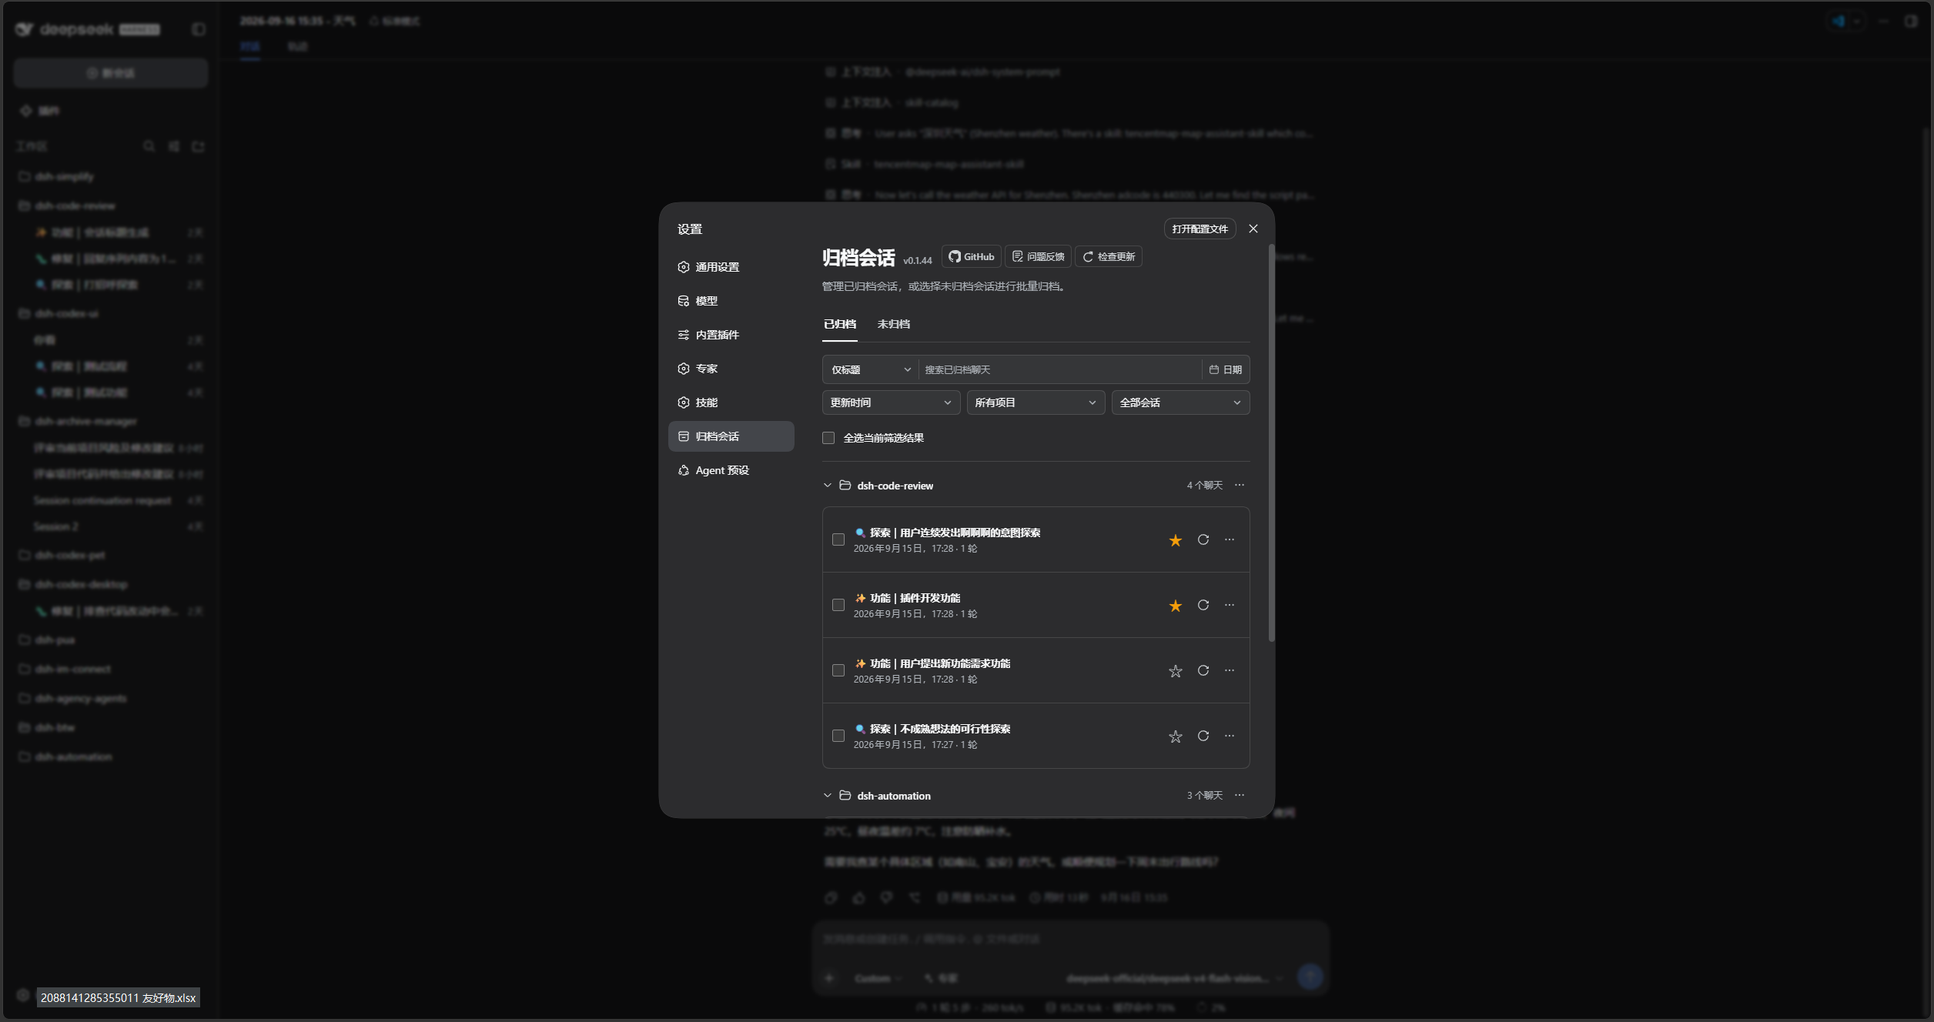
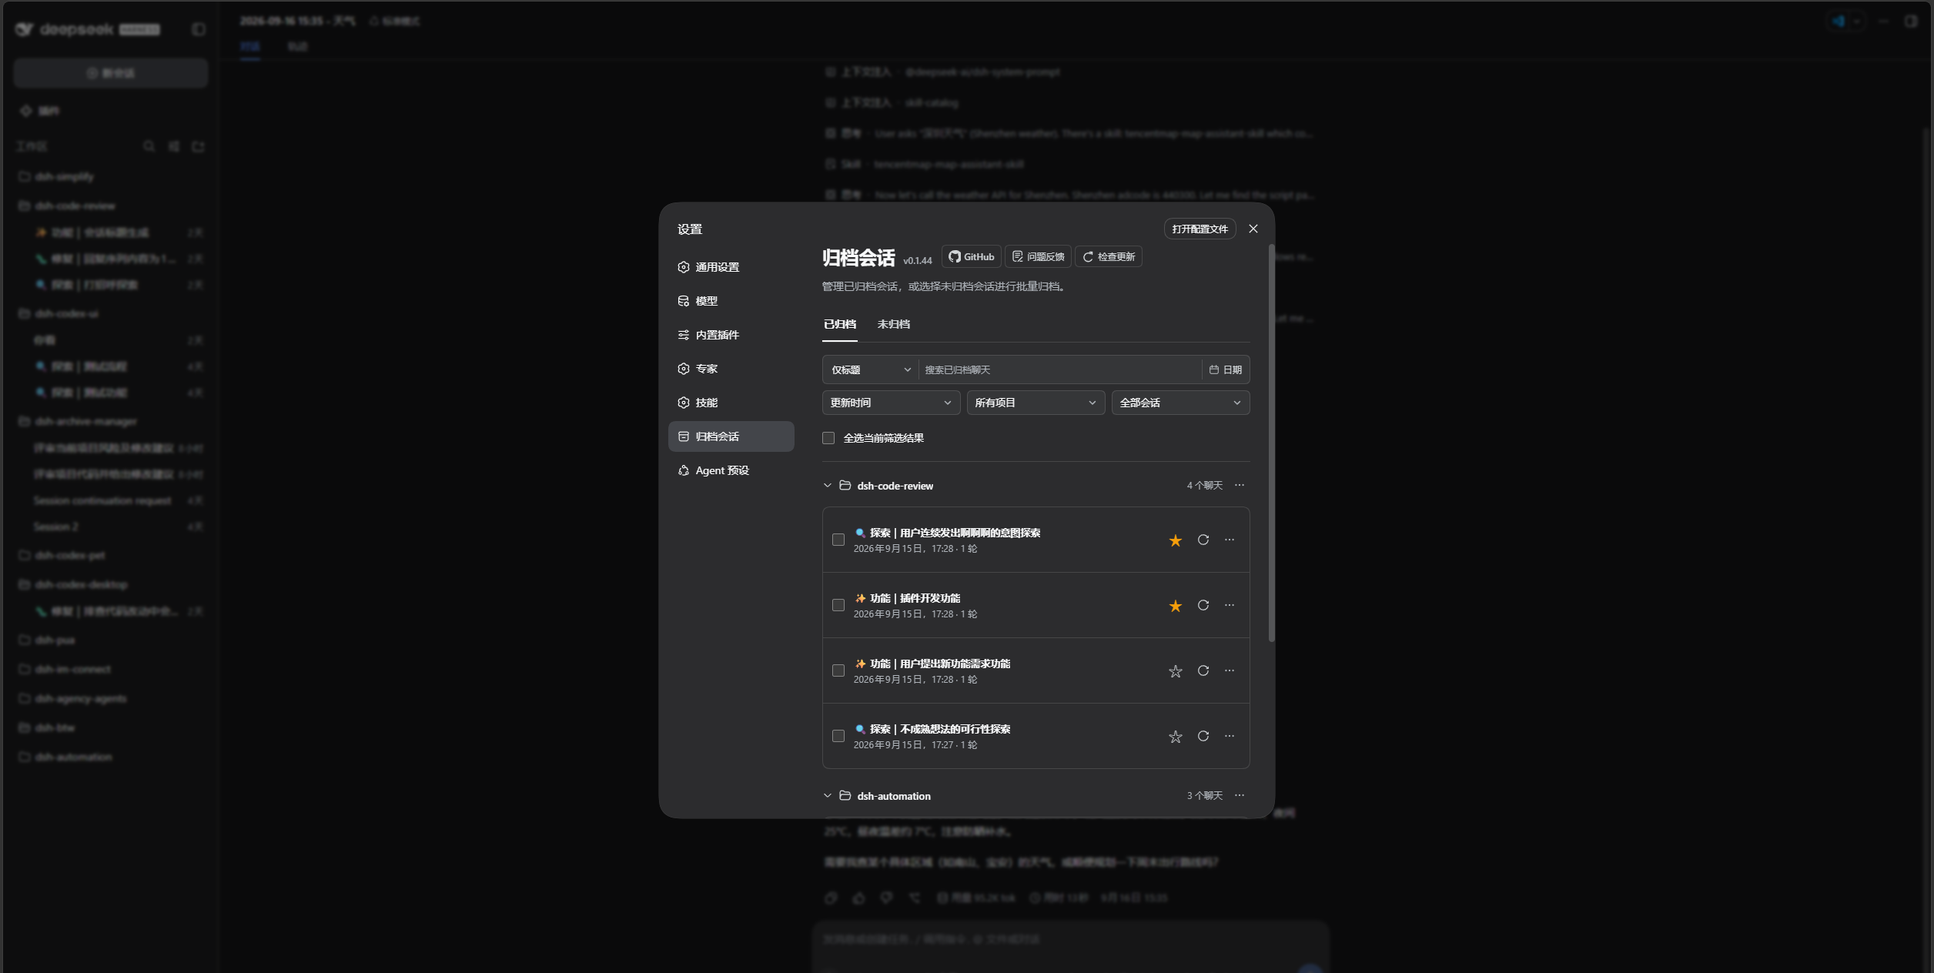
fix: 修复迁移防御与截图隐私并准备 1.0.1
恢复宿主导航快照的可调用检查，保留畸形日志轮次统计的旧语义，
并覆盖原始值、空值、数组与宿主清理包装路径。
裁掉两张截图的个人文件名，移除孤儿菜单图；补齐英文 README、
双语更新日志和发行说明。lib 仍不入 Git，发布入口与运行模块不变。
补齐全部 11 个发布模块检查，test:compat 独立运行前自动构建。

验证：
- 回归测试先失败再通过，pnpm typecheck 通过。
- pnpm release:preflight 与最终 pnpm verify 通过：248 项当前测试。
- 7 版 DSH 兼容矩阵通过；最老两版各有 1 个既有跳过项。
- 无 lib 的隔离目录中独立 pnpm test:compat 通过。
- 6 个新增必需模块逐一缺失均被阻断。
- 实际包含 11 个模块，裁剪图逐字节一致，无旧截图和独立发行说明。
- npm 官方源审计 0 漏洞，git diff --check 通过。

边界：旧 npm 1.0.0 和 Git 历史图片不被本补丁删除；
client.ts 大组件拆分仍是独立待办。

diff --git a/src/archive-discovery.ts b/src/archive-discovery.ts
@@ -58,12 +58,15 @@ export const detailsResultSchema = { parse(input: unknown) {
 /** 一条用户提交算一轮，包括图片消息；助手工具步骤及插件注入不计入。 */
 export function countConversationTurns(events: readonly unknown[]) {
   if (!Array.isArray(events)) throw new TypeError("会话日志无效");
-  return events.map(record).filter(event => {
-    if (event.type !== "user/message") return false;
-    const data = event.data && typeof event.data === "object" ? record(event.data) : {};
-    const message = data.message && typeof data.message === "object" ? record(data.message) : data;
-    const source = message.source && typeof message.source === "object" ? record(message.source) : {};
-    return Boolean(event.data) && (!source.kind || source.kind === "user");
+  return events.filter(value => {
+    if (!value || typeof value !== "object" || !("type" in value) || value.type !== "user/message") return false;
+    const data = "data" in value ? value.data : undefined;
+    // 保留旧日志的空值回退与真假值语义：空字符串/零不计数，非空原始载荷计数。
+    const message = (data && typeof data === "object" && "message" in data ? data.message : undefined) ?? data;
+    if (!message) return false;
+    const source = typeof message === "object" && "source" in message ? message.source : undefined;
+    const kind = source && typeof source === "object" && "kind" in source ? source.kind : undefined;
+    return !kind || kind === "user";
   }).length;
 }
 /** 未知轮次始终排在已知值之后，避免读取失败被误当作零轮。 */

diff --git a/src/archive-experience.ts b/src/archive-experience.ts
@@ -4,7 +4,7 @@ import type { ArchiveState, SessionList, Snapshot, Translate } from "./contracts
 interface RetainInfo { retainedBy?: { mainView?: number } }
 export interface SessionNavigationSource {
   list: Snapshot<SessionList>;
-  retainInfo?(id: string): RetainInfo | Snapshot<RetainInfo> | undefined;
+  retainInfo?(id: string): unknown;
   retain?: unknown;
   open?(id: string): unknown;
 }
@@ -37,7 +37,13 @@ export function formatArchiveNavigationError(error: unknown, t: Translate) {
 function retainInfoSnapshot(sessions: SessionNavigationSource | undefined, id: string): RetainInfo | undefined {
   if (typeof sessions?.retainInfo !== "function") return;
   const source = sessions.retainInfo(id);
-  return source && "getSnapshot" in source ? source.getSnapshot() : source;
+  // 宿主边界不能只凭字段存在就调用；畸形保留信息应退化为非当前会话。
+  const value: unknown = source && typeof source === "object" && "getSnapshot" in source && typeof source.getSnapshot === "function"
+    ? source.getSnapshot() : source;
+  if (!value || typeof value !== "object" || !("retainedBy" in value)) return;
+  const retainedBy = value.retainedBy;
+  if (!retainedBy || typeof retainedBy !== "object" || !("mainView" in retainedBy) || typeof retainedBy.mainView !== "number") return;
+  return { retainedBy: { mainView: retainedBy.mainView } };
 }
 
 function mainViewSessionId(list: SessionList | undefined) {

diff --git a/RELEASE_NOTES.md b/RELEASE_NOTES.md
@@ -1,113 +1,15 @@
 ## 中文说明
 
-从 0.1.44 升级到首个 1.0 正式版本，集中完善会话整理、检索、预览与异常修复。沿用原有安装包名和数据，不要求迁移会话；现有归档、恢复、永久删除及原生会话导航继续保留。
-
-### 会话列表与统一筛选
-
-- 已归档、未归档两页统一支持标题／正文搜索、项目、收藏和更新时间范围筛选；默认只搜索标题，搜索框左侧切换范围，右侧打开日期选择器。结束日期包含本地当天，支持独立清除日期及点击外部关闭。
-- 使用紧凑项目分组列表，项目可折叠；标题点击打开原生会话，星标、恢复／归档使用右侧图标，更多菜单提供恢复打开、预览、复制与删除等适用操作。
-- 支持更新时间、创建时间、标题和轮次升降序排序；分组计数跟随筛选，空态区分当前页签。
-- 全选只覆盖当前筛选结果，包含折叠组中的匹配项；切页签清空选择，改变筛选保留选择并提示隐藏选中项。项目菜单仍操作整个项目，不受筛选影响。
-- 移除重复的页面级「全部恢复／全部删除」按钮；保留勾选批量操作及项目菜单，操作结果按页签隔离。
-
-### 收藏、闲置整理与批量操作
-
-- 两页均可收藏／取消收藏，通过下拉菜单只看收藏；收藏保存于宿主，归档、恢复和更换浏览器后保留。索引暂时未知或读取失败不会清除收藏，只有确证工件缺失时才清理。
-- 未归档页支持设置 1～36500 个整数闲置天数，结合当前筛选预览候选；确认清单可逐条取消。排除收藏、当前打开、正在执行及等待交互的会话，并考虑子代理活动；无有效活动时间不参与。
-- 归档前再次检查收藏和活动状态。批量归档、恢复、删除显示进度及成功／跳过／失败／未处理明细；遇到首个失败停止，允许只重试剩余项，删除重试仍需确认。
-- 支持「撤回本次归档」，恢复最近一批实际成功归档及重试成功的会话；仅当前管理页打开期间有效，不撤回永久删除。
-
-### 正文检索与快速预览
-
-- 在用户与助手的持久化正文中查找关键词，显示命中片段和高亮；读取失败显示明细并支持重试，更改筛选后旧响应不会覆盖新结果。
-- 已归档会话可不恢复直接预览，展示首个命中附近上下文或最近八条消息；未归档命中片段打开完整会话。
-- 预览支持 Markdown 表格、引用、代码块和角色区分，可切换原文高亮；加宽弹窗并补齐操作图标。
-- 修复大小写折叠引起的 Unicode 偏移错误、截断切开代理对、Esc 连带关闭设置，以及切换页签后预览自行重开。
-
-### 轮次统计与会话定位
-
-- 两页显示用户提交轮次，包括图片消息及分支继承的用户消息，不把助手回复、工具调用或插件注入算作轮次。
-- 提供轮次最多／最少排序，未知轮次始终置后；详情读取失败可查看并重试。
-- 更多菜单支持分别复制会话 ID 和路径。官方 JSONL 后端复制会话目录，其他后端使用宿主返回的有效路径；路径缺失和剪贴板失败均明确提示。
-
-### 异常诊断与定向修复
-
-- 已归档页汇总异常会话，包括缺少摘要的归档 ID；诊断区使用可折叠状态卡片，提供分类建议及技术详情。
-- 缺文件、权限、损坏等分类优先使用稳定错误码、兼容文案兜底；诊断发现不能自动修复时仍保留原分类，追加受限原因。
-- 对支持的旧自动化消息来源提供「诊断 → 确认修复」流程。以实际工件、宿主格式校验和写锁判断资格，不仅依赖错误措辞；要求已归档且未被任何 DSH 进程打开。
-- 保留原始日志、正文、任务归属和继承信息，经宿主重新编码与校验后发布新代际；修复文件使用私有权限。发布采用禁止覆盖策略，硬链接不可用时安全失败，不覆盖现有日志。
-
-### 界面、国际化与兼容性
-
-- 对齐官方主题的选中、复选框、焦点、警告、更新按钮及高亮配色；完善日期下拉、诊断卡片、星标和操作图标。
-- 补齐诊断、预览、更新入口和错误提示的中英文；切换语言不再额外触发详情读取，修复复制错误和空态文案。
-- 更新已归档／未归档截图及双语 README，完整说明筛选、撤回、修复与检索边界。
-- 保持既有 DSH 支持范围：0.1.0-rc.8、0.1.1-rc.2、0.1.2-rc.1、0.1.5-rc.1、0.1.5-rc.2、0.1.6-alpha.1、0.1.6-alpha.2；与 Codex UI 共存，不新增侧栏置顶或收藏功能。
-- 正式检索接口为 searchSessionContent，支持两种归档状态；searchArchivedContent 保留为旧宿主／客户端的归档专用兼容入口，不重复调用。
-
-### 使用边界与验证
-
-- 正文检索和轮次没有持久化索引；每批最多 20 条会话、批内逐条读取。大量或超长日志建议先缩小范围，尚无规模或时延承诺；在途批次不能中止，取消只阻止后续批次及旧结果回写。
-- 检索关键词最多 200 字符；不搜索工具输出、附件、推理、系统和插件注入。预览每条最多 2000 个 UTF-16 码元，保留完整 Unicode 字符；完整内容通过原生会话查看。
-- 没有后台定时归档；收藏保护仅适用于闲置整理。其他页面的收藏变更需重开管理页读取；撤回记录在关闭或刷新后消失。
-- 自动修复不是通用日志恢复工具：缺失、权限及不支持的损坏只提供建议，不删除或截断消息。永久删除不可撤销；本轮不新增任务摘要和 Markdown 导出。
-- 功能候选已通过本地回归、支持宿主隔离矩阵及真实 DSH 0.1.6-alpha.2 浏览器冒烟，覆盖检索、预览、收藏、批量操作、诊断与修复。真实模型发送、流式回复、工具审批和未知宿主版本不在本次验收承诺内。
-- 宿主设置窗口在极窄屏下的遮挡仍需宿主侧修复；未承诺所有移动端布局均可用。
+- 源码迁移为严格 TypeScript；生成的 `lib` 不再进入 Git，由 `prepack` 自动重建。npm 包的 JavaScript 入口和运行模块保持不变。
+- 恢复宿主导航边界的快照可调用判断；轮次统计保留旧版畸形载荷语义，跳过非对象事件，避免整行详情读取失败。
+- 裁掉两张截图底部的个人文件名条，发布体积更小的 WebP 图片和 DSH 支持徽章，移除未使用的菜单截图。
+- 打包前检查全部 11 个运行模块，独立兼容测试先构建。GitHub 发行说明由双语更新日志生成；npm 包不再包含容易过期的独立发行说明文件。
 
 ---
 
 ## English
 
-The first 1.0 release expands session organization, search, previews, and targeted repair since 0.1.44. The package name and existing data remain unchanged; no session migration is required. Existing archive, restore, permanent deletion, and native conversation navigation remain available.
-
-### Lists and shared filters
-
-- Archived and Unarchived share title/content search, project, favorites, and updated-date filters. Titles-only remains the default; switch scope on the left of the search box and open dates on the right. The end date includes the entire local day; dates can be cleared independently and the popover closes on outside clicks.
-- Compact collapsible project groups provide clickable titles, right-side stars and archive/restore icons, and applicable More actions for restore-and-open, preview, copying, and deletion.
-- Sort by update time, creation time, title, or most/fewest turns. Group counts follow filters and empty states match the active tab.
-- Select all covers filtered results, including collapsed groups. Switching tabs clears selection; filtering preserves it and reports hidden selections. Project-wide actions remain independent of filters.
-- Remove redundant page-wide Restore all / Delete all buttons while retaining selection-based and project actions. Operation results remain scoped to their tab.
-
-### Favorites, idle cleanup, and batch actions
-
-- Star or unstar on either tab and filter to favorites. Host-persisted favorites survive archive, restore, and browser changes. Unknown indexes and read failures do not remove favorites; cleanup requires confirmed artifact absence.
-- On Unarchived, preview idle candidates using 1–36,500 whole days and the current filters; deselect individual candidates before confirmation. Exclude favorites, the current conversation, running sessions, pending interactions, and sessions with active subagents or no valid activity time.
-- Recheck favorites and activity before archiving. Batch archive, restore, and delete show progress and successful/skipped/failed/remaining results. Stop at the first failure and retry only remaining items; delete retries still require confirmation.
-- Undo the most recent successful archive batch, including successful retries, while the management page remains open. Permanent deletion cannot be undone.
-
-### Content search and quick preview
-
-- Search persisted user and assistant text with snippets and highlights. Read failures remain visible and retryable; obsolete responses cannot replace results after filters change.
-- Preview archived sessions without restoring them, showing context around the first match or up to eight recent messages. Unarchived snippets open the full conversation.
-- Render Markdown tables, quotes, code blocks, and role labels, with a source/highlight mode, a wider dialog, and action icons.
-- Fix Unicode offsets after case folding, split surrogate pairs on truncation, Escape closing Settings as well as preview, and previews reopening after tab switches.
-
-### Turn counts and session location
-
-- Show user submission counts on both tabs, including image submissions and inherited branch messages; exclude assistant replies, tool calls, and injected messages.
-- Sort by most/fewest turns with unknown counts always last; inspect and retry detail failures.
-- Copy session IDs and paths separately from More. Official JSONL storage exposes the session directory; other backends use a valid host-provided path. Missing paths and clipboard failures are reported explicitly.
-
-### Diagnosis and targeted repair
-
-- Collect archived read failures, including IDs without summaries, in collapsible diagnostic cards with classified advice and technical details.
-- Prefer stable error codes for missing files, permissions, and corruption, with message-based compatibility fallbacks. Unavailable repair preserves the original classification and appends its limitation.
-- Diagnose and explicitly confirm repair for supported legacy automation message sources. Eligibility depends on artifacts, host format validation, and a write lease, not just error wording. Sessions must be archived and closed in every DSH process.
-- Retain original logs, text, automation attribution, and inheritance data. Publish a new generation only after host re-encoding and validation; create private repair files. Publication never overwrites existing logs and fails safely if hard links are unavailable.
-
-### UI, localization, and compatibility
-
-- Align selection, checkboxes, focus, warnings, updates, and highlights with official theme tokens; refine date controls, diagnostic cards, stars, and action icons.
-- Complete Chinese/English diagnosis, preview, update, and error messages. Language changes no longer cause extra detail reads; fix copy-error and empty-state text.
-- Refresh Archived/Unarchived screenshots and both READMEs, including filter, undo, repair, and search boundaries.
-- Retain support for DSH 0.1.0-rc.8, 0.1.1-rc.2, 0.1.2-rc.1, 0.1.5-rc.1, 0.1.5-rc.2, 0.1.6-alpha.1, and 0.1.6-alpha.2. Coexist with Codex UI; no new sidebar pinning or favorites features are introduced.
-- searchSessionContent is the canonical API for both archive states. Keep searchArchivedContent as the archived-only compatibility entry for older hosts/clients; do not dispatch duplicate searches.
-
-### Limits and validation
-
-- Content search and turn counts have no persistent index. Read at most 20 sessions per batch, sequentially. Narrow filters for large or long logs; no scale or latency guarantee is established. In-flight batches cannot be interrupted; cancellation prevents subsequent batches and stale results.
-- Queries accept up to 200 characters. Search excludes tools, attachments, reasoning, system messages, and plugin injections. Preview limits each message to 2,000 UTF-16 code units without splitting Unicode characters; open the native conversation for full content.
-- No scheduled background archiving. Favorite protection applies only to idle cleanup. Reopen management to see favorites changed elsewhere; closing or refreshing clears undo history.
-- Repair is not a general recovery tool: missing files, permissions, and unsupported corruption receive advice, never forced deletion or truncation. Permanent deletion is irreversible. Task summaries and Markdown export are not added.
-- The functional candidate passed local regressions, isolated supported-host matrices, and real DSH 0.1.6-alpha.2 browser smoke tests covering search, preview, favorites, batches, diagnosis, and repair. Real model submission, streaming, tool approvals, and unknown host versions are outside this validation claim.
-- The host Settings shell still has an extremely narrow-screen obstruction; full mobile layout support is not claimed.
+- Migrate source code to strict TypeScript. Generated `lib` files are no longer tracked by Git and are rebuilt by `prepack`; published JavaScript entry points and runtime modules remain unchanged.
+- Restore callable snapshot guards at the host navigation boundary and preserve previous turn-count semantics for malformed log payloads, skipping non-object events.
+- Crop the personal filename strip from both screenshots, ship smaller WebP assets and DSH support badges, and remove the unused menu screenshot.
+- Check all 11 runtime modules before packaging and build before standalone compatibility tests. Release notes are generated from the bilingual changelogs for GitHub Releases; the stale standalone notes file is no longer included in npm packages.

diff --git a/CHANGELOG.md b/CHANGELOG.md
@@ -6,6 +6,13 @@ Published release notes are retained below; new versions are added without remov
 
 ## Unreleased
 
+## 1.0.1 - 2026-09-21
+
+- Migrate source code to strict TypeScript. Generated `lib` files are no longer tracked by Git and are rebuilt by `prepack`; published JavaScript entry points and runtime modules remain unchanged.
+- Restore callable snapshot guards at the host navigation boundary and preserve previous turn-count semantics for malformed log payloads, skipping non-object events.
+- Crop the personal filename strip from both screenshots, ship smaller WebP assets and DSH support badges, and remove the unused menu screenshot.
+- Check all 11 runtime modules before packaging and build before standalone compatibility tests. Release notes are generated from the bilingual changelogs for GitHub Releases; the stale standalone notes file is no longer included in npm packages.
+
 ## 1.0.0 - 2026-09-21
 
 The first 1.0 release expands session organization, search, previews, and targeted repair since 0.1.44. The package name and existing data remain unchanged; no session migration is required. Existing archive, restore, permanent deletion, and native conversation navigation remain available.

diff --git a/CHANGELOG.zh-CN.md b/CHANGELOG.zh-CN.md
@@ -6,6 +6,13 @@
 
 ## Unreleased
 
+## 1.0.1 - 2026-09-21
+
+- 源码迁移为严格 TypeScript；生成的 `lib` 不再进入 Git，由 `prepack` 自动重建。npm 包的 JavaScript 入口和运行模块保持不变。
+- 恢复宿主导航边界的快照可调用判断；轮次统计保留旧版畸形载荷语义，跳过非对象事件，避免整行详情读取失败。
+- 裁掉两张截图底部的个人文件名条，发布体积更小的 WebP 图片和 DSH 支持徽章，移除未使用的菜单截图。
+- 打包前检查全部 11 个运行模块，独立兼容测试先构建。GitHub 发行说明由双语更新日志生成；npm 包不再包含容易过期的独立发行说明文件。
+
 ## 1.0.0 - 2026-09-21
 
 从 0.1.44 升级到首个 1.0 正式版本，集中完善会话整理、检索、预览与异常修复。沿用原有安装包名和数据，不要求迁移会话；现有归档、恢复、永久删除及原生会话导航继续保留。

diff --git a/README.md b/README.md
@@ -189,7 +189,7 @@ pnpm build
 dsh plugin --profile web add .
 ```
 
-Restart DSH Web and hard-refresh your browser afterward. Edit [src](src), not the generated `lib` directory. Run `pnpm test` to validate changes or `pnpm verify` for the full checks.
+Restart DSH Web and hard-refresh your browser afterward. Source code in [src](src) uses strict TypeScript. Generated `lib` files are excluded from Git; `prepack` rebuilds them automatically. Published JavaScript entry points and runtime modules remain unchanged; installing the npm package does not require TypeScript. Run `pnpm typecheck` for type checking, `pnpm test` to validate changes, or `pnpm verify` for the full checks.
 
 </details>
 
